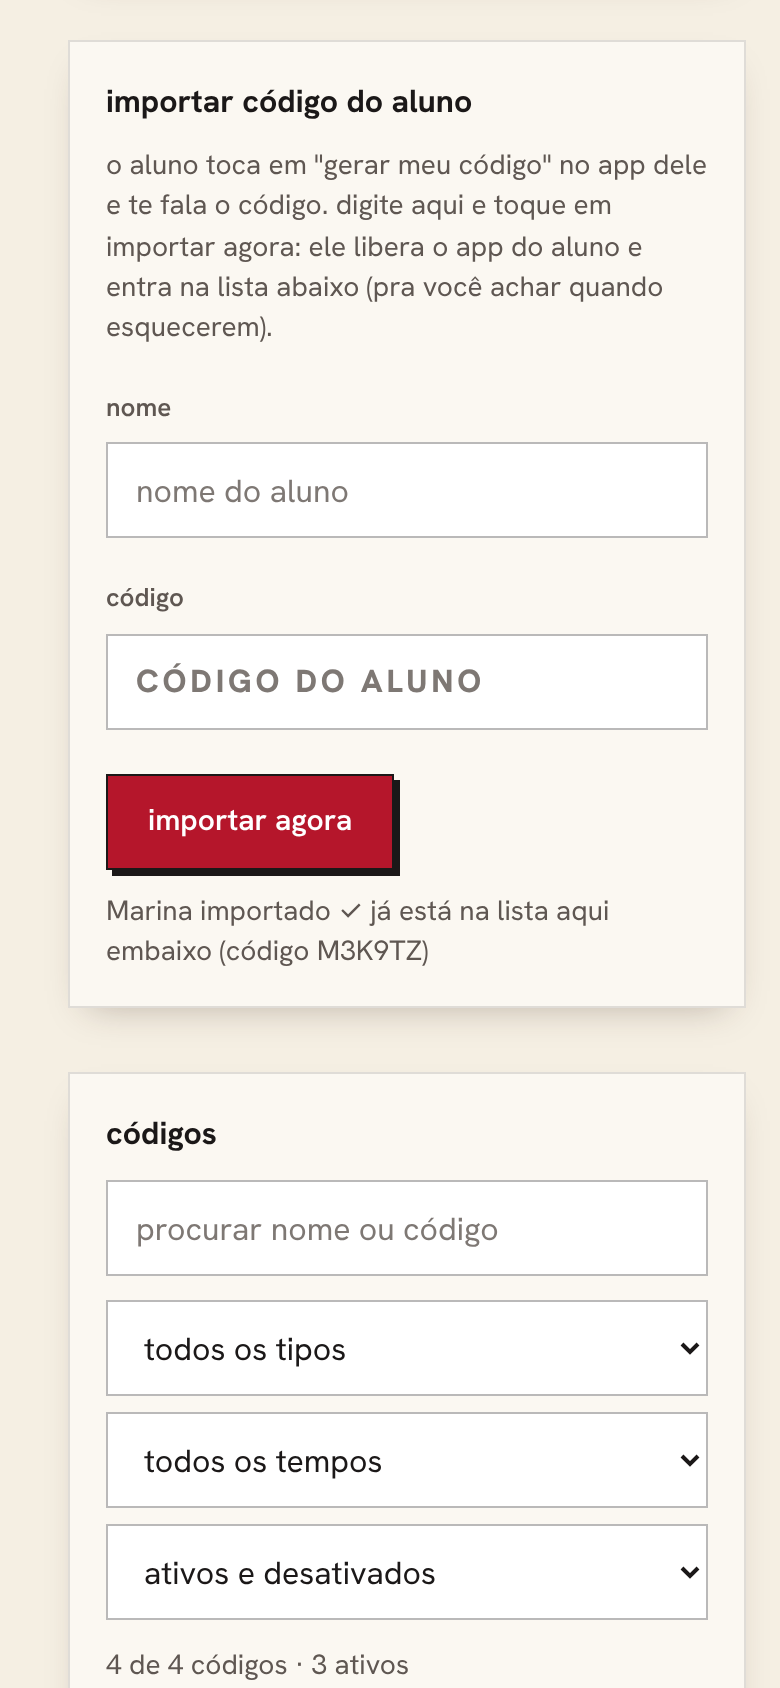
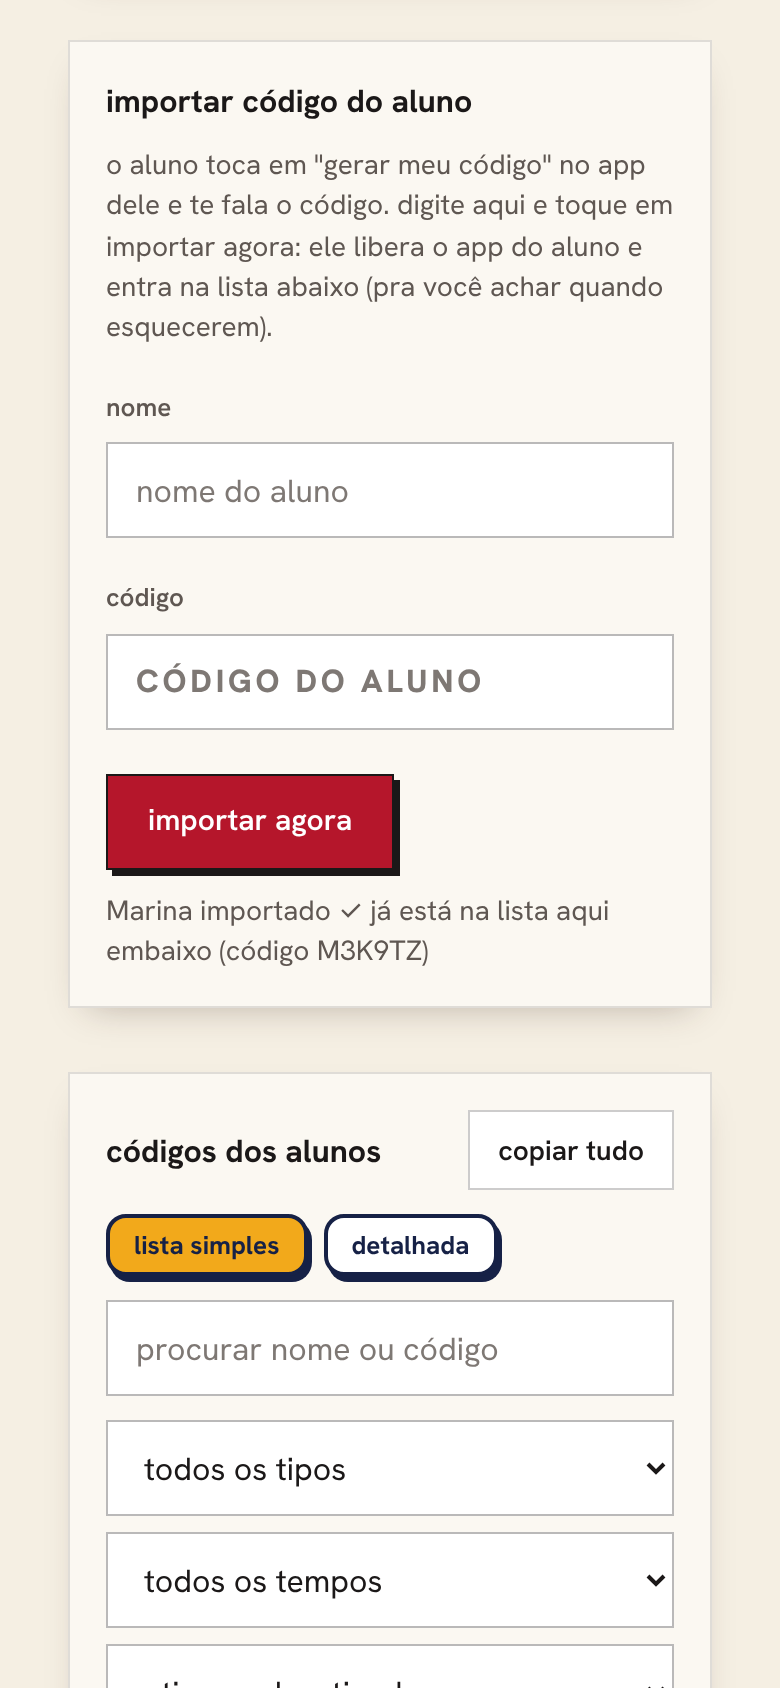
v715: lista simples dos codigos (nome, codigo, copiar, whats) em ordem alfabetica na aba Codigos da Bea
Claude-Session: https://claude.ai/code/session_017Ekti3kM2Vxnu27Y3eqQNw

diff --git a/js/views/codigos.js b/js/views/codigos.js
@@ -146,7 +146,7 @@ const msgNovo = (code, dias) => `oi! aqui está o seu código da Beaterista: ${c
 export function mount(host) {
   let list = []; let gone = false; let busy = false;
   let code = CODE.gerar(); let salvo = false; let cat = 'aluno'; let dias = 365; let ativo = true; let abas = []; let abasAberto = false; // abas = [] quer dizer "todas as abas" // estado do card "novo código"
-  let q = ''; let fTipo = ''; let fTempo = ''; let fAtivo = '';
+  let q = ''; let fTipo = ''; let fTempo = ''; let fAtivo = ''; let modo = 'lista'; // modo: 'lista' (simples, em ordem alfabética: nome, código, copiar) ou 'cartoes' (detalhada, com tempo e ativar/desativar)
   const sel = (opts, valor, onChange, label) => { const s = h('select', { class: 'field', 'aria-label': label }, ...opts.map(([v, t]) => h('option', { value: String(v), selected: String(v) === String(valor) }, t))); s.addEventListener('change', () => onChange(s.value)); return s; };
   const tiles = (opts, valor, onPick, label, attr) => h('div', { class: 'cod-tiles', role: 'radiogroup', 'aria-label': label }, ...opts.map(([v, t]) => h('button', { type: 'button', role: 'radio', 'aria-checked': String(String(v) === String(valor)), class: `cod-tile${String(v) === String(valor) ? ' on' : ''}`, [attr]: String(v), onclick: () => onPick(v) }, t)));
   const interruptor = (on, rotulo, onToggle, aria) => h('button', { type: 'button', role: 'switch', 'aria-checked': String(on), 'aria-label': aria, class: `cod-sw${on ? ' on' : ''}`, onclick: onToggle }, h('span', { class: 'cod-sw-t', 'aria-hidden': 'true' }), rotulo ? h('span', {}, rotulo) : null);
@@ -195,9 +195,20 @@ export function mount(host) {
   const mudarTempo = (x) => sheet(`tempo de acesso · ${x.nome || x.code}`, (close) => { let v = x.dias || 365; const s = sel(CODE.TEMPOS, v, (n) => { v = Number(n); }, 'Novo tempo de acesso');
     return h('div', { class: 'sheet-body' }, h('p', { class: 'muted' }, x.expira_em || x.iniciado_em ? 'o código já começou a contar: o novo tempo vale a partir de hoje.' : 'o código ainda não foi usado: a contagem do novo tempo começa no 1º uso.'), h('label', { class: 'field' }, h('span', {}, 'tempo'), s),
       h('div', { class: 'row end' }, h('button', { class: 'btn ghost', type: 'button', onclick: close }, 'cancelar'), h('button', { class: 'btn primary', type: 'button', onclick: () => { close(); run(() => CODE.mudarTempo(x, v), 'tempo atualizado ✓'); } }, 'salvar'))); });
+  const msgAluno = (x) => `oi${x.nome ? ` ${x.nome.split(' ')[0]}` : ''}! seu código de acesso da Beaterista é ${x.code}\nentre em ${SITE} e digite o código em "já sou aluno" (ou toque em "tenho código" no app). 🥁`;
+  const mandar = (x) => window.open(`https://wa.me/?text=${encodeURIComponent(msgAluno(x))}`, '_blank', 'noopener');
+  const porNome = (a, b) => ((a.nome || '\uffff').toLowerCase()).localeCompare((b.nome || '\uffff').toLowerCase(), 'pt');
   const desenhaLista = () => {
     const rows = filtrados(); const n = list.filter((x) => x.ativo).length;
-    listaBox.replaceChildren(h('p', { class: 'muted' }, `${rows.length} de ${list.length} código${list.length === 1 ? '' : 's'} · ${n} ativo${n === 1 ? '' : 's'}`),
+    const topo = h('p', { class: 'muted' }, `${rows.length} de ${list.length} código${list.length === 1 ? '' : 's'} · ${n} ativo${n === 1 ? '' : 's'}`);
+    if (modo === 'lista') {
+      listaBox.replaceChildren(topo, rows.length ? h('ul', { class: 'cod-simples' }, ...rows.slice().sort(porNome).map((x) => h('li', { class: x.ativo ? '' : 'off' },
+        h('span', { class: 'cod-s-nome' }, x.nome || 'sem nome', x.ativo ? null : h('small', {}, ' · desativado')),
+        h('b', { class: 'rg-code cod-s-code' }, x.code),
+        h('span', { class: 'cod-s-bt' }, h('button', { class: 'btn small ghost', type: 'button', onclick: () => copy(x.code, 'código copiado') }, 'copiar'), h('button', { class: 'btn small ghost', type: 'button', 'aria-label': `mandar o código pra ${x.nome || x.code} no WhatsApp`, onclick: () => mandar(x) }, 'whats'))))) : h('p', { class: 'muted' }, 'nenhum código com esse filtro.'));
+      return;
+    }
+    listaBox.replaceChildren(topo,
       ...(rows.length ? rows.map((x) => h('article', { class: `cod-item${x.ativo ? '' : ' off'}` },
         h('div', { class: 'cod-item-top' }, h('span', { class: `cod-av c-${x.categoria || 'aluno'}`, 'aria-hidden': 'true' }, (x.nome || x.code)[0].toUpperCase()),
           h('div', { class: 'cod-item-id' }, h('b', {}, x.nome || 'sem nome'), h('b', { class: 'rg-code cod-item-code' }, x.code), h('small', { class: 'muted' }, `${tempoDe(x)} · ${venc(x)}`)),
@@ -225,7 +236,9 @@ export function mount(host) {
     h('p', { class: 'muted' }, 'o aluno toca em "gerar meu código" no app dele e te fala o código. digite aqui e toque em importar agora: ele libera o app do aluno e entra na lista abaixo (pra você achar quando esquecerem).'),
     h('label', { class: 'field' }, h('span', {}, 'nome'), impNome), h('label', { class: 'field' }, h('span', {}, 'código'), impCod),
     h('div', { class: 'row' }, h('button', { class: 'btn primary', type: 'button', onclick: importarAgora }, 'importar agora')), impMsg);
-  const listaCard = h('section', { class: 'card pad' }, h('b', {}, 'códigos'), busca,
+  const abas2 = h('div', { class: 'cod-modo', role: 'group', 'aria-label': 'jeito de ver a lista' }, ...[['lista', 'lista simples'], ['cartoes', 'detalhada']].map(([id, rot]) => h('button', { type: 'button', class: `cod-modo-bt${modo === id ? ' on' : ''}`, 'aria-pressed': String(modo === id), 'data-modo': id, onclick: (e) => { modo = id; abas2.querySelectorAll('button').forEach((b) => { const on = b.dataset.modo === modo; b.classList.toggle('on', on); b.setAttribute('aria-pressed', String(on)); }); desenhaLista(); } }, rot)));
+  const copiarTudo = () => copy(['nome\tcódigo', ...list.slice().sort(porNome).map((x) => `${x.nome || ''}\t${x.code}`)].join('\n'), 'lista copiada (cola na planilha)');
+  const listaCard = h('section', { class: 'card pad' }, h('div', { class: 'row between' }, h('b', {}, 'códigos dos alunos'), h('button', { class: 'btn small ghost', type: 'button', onclick: copiarTudo }, 'copiar tudo')), abas2, busca,
     h('div', { class: 'cod-filtros' },
       sel([['', 'todos os tipos'], ...CODE.CATEGORIAS], fTipo, (v) => { fTipo = v; desenhaLista(); }, 'Filtrar por tipo'),
       sel([['', 'todos os tempos'], ...CODE.TEMPOS], fTempo, (v) => { fTempo = v; desenhaLista(); }, 'Filtrar por tempo'),

diff --git a/css/app.css b/css/app.css
@@ -1752,3 +1752,11 @@ html.kb-open .bottom-nav, html.kb-open .to-top, html.kb-open .scroll-track, html
 /* aba Códigos: importar código do aluno e código bem visível na lista */
 .cod-importar { display: grid; gap: 10px; } .cod-importar .field { display: grid; gap: 4px; } .cod-imp-in { text-transform: uppercase; letter-spacing: .12em; font-weight: 800; }
 .cod-item-code { display: block; font: 800 20px/1.1 ui-monospace, "SFMono-Regular", Menlo, monospace; letter-spacing: .16em; margin: 2px 0; user-select: all; }
+/* lista simples dos códigos (nome · código · copiar · whats), em ordem alfabética */
+.cod-modo { display: flex; gap: 8px; margin: 6px 0; } .cod-modo-bt { border: 2px solid #162146; background: #fff; color: #162146; border-radius: 10px !important; padding: 5px 12px; font: 700 13px "Hanken Grotesk", sans-serif; box-shadow: 2px 3px 0 #162146; cursor: pointer; } .cod-modo-bt.on { background: #f2a91b; }
+.cod-simples { list-style: none; margin: 8px 0 0; padding: 0; display: grid; gap: 0; }
+.cod-simples li { display: grid; grid-template-columns: 1fr auto; grid-template-areas: "nome bt" "code bt"; align-items: center; column-gap: 8px; padding: 8px 0; border-bottom: 1px solid rgba(0,0,0,.1); }
+.cod-simples li.off { opacity: .55; }
+.cod-s-nome { grid-area: nome; font-weight: 700; min-width: 0; } .cod-s-nome small { font-weight: 600; opacity: .8; }
+.cod-s-code { grid-area: code; font: 800 18px/1.1 ui-monospace, "SFMono-Regular", Menlo, monospace; letter-spacing: .16em; user-select: all; }
+.cod-s-bt { grid-area: bt; display: flex; gap: 6px; }

diff --git a/sw.js b/sw.js
@@ -1,5 +1,5 @@
 // Service worker: cacheia só o "casco" do app (código + marca). Nenhum dado do usuário passa por aqui.
-const VERSION = 'beaterista-v714';
+const VERSION = 'beaterista-v715';
 const SHELL = [
   'js/paulta/livre.js', 'js/dicas-aluno.js', 'js/boas-vindas.js', 'js/inicio-perfil.js', 'js/icone-paul.js', 'js/palavras-bloqueadas.js',
   'js/paulta/mapa.js',
